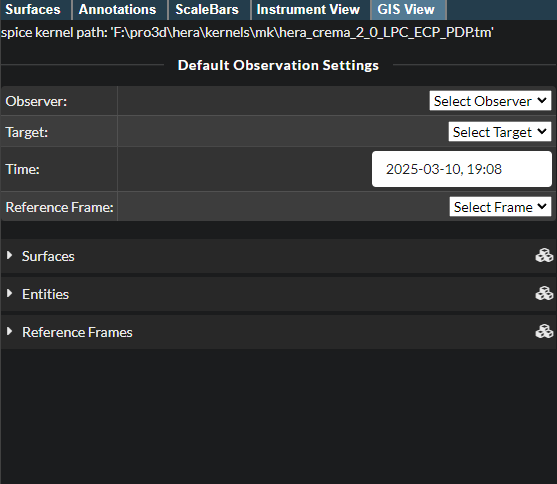
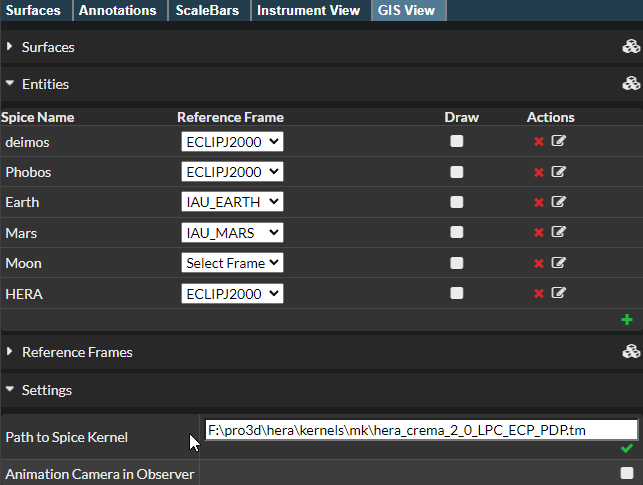
added SPICE loading to main menu (extras), updated docs, refactored SPICE loading, added eclip2000

diff --git a/docs/GisView.md b/docs/GisView.md
@@ -22,13 +22,13 @@ There are two options to load SPICE kernels.
 
 #### The UI
 
-1. Initially the GIS View looks like this. 
-![](./images/gis-view.png)
+1. Initially PRo3D with GIS view enabled looks like this:
+![alt text](./images/Gis-view.png)
 
 2. Load the kernel via:
 ![alt text](images/loadKernel.png)
 
-3. Then the Gis View should print the path to the kernel:
+3. Then the Gis View should print the path to the kernel (scroll down, and look at the settings pane within the GIS view):
 ![](images/loadedKernel.png)
 
 ## Observing mars
@@ -42,10 +42,12 @@ and
 ![](./images/visibleMars.png)
 Also make sure to have the far plane set far away for viewing mars from phobos. Ajust the near *and* far planes accordingly:
 ![](./images/farplane.png)
-Next the mars proxy should be visible.
-![](./images/observation.png)
 
-By using the visualization properties in the entity list the element can be textured.
+Now mars should be visible from the observation point of view.
+
+By using the visualization properties in the entity list the element can be textured as well.
+
+![](./images/textured.png)
 
 Next let us load the mola dataset.
 In the Surfaces pane witin the Gis View, now specifiy reference frame and celestial body for the surface (if it does not appear change the observation settings, e.g. by setting the time):
